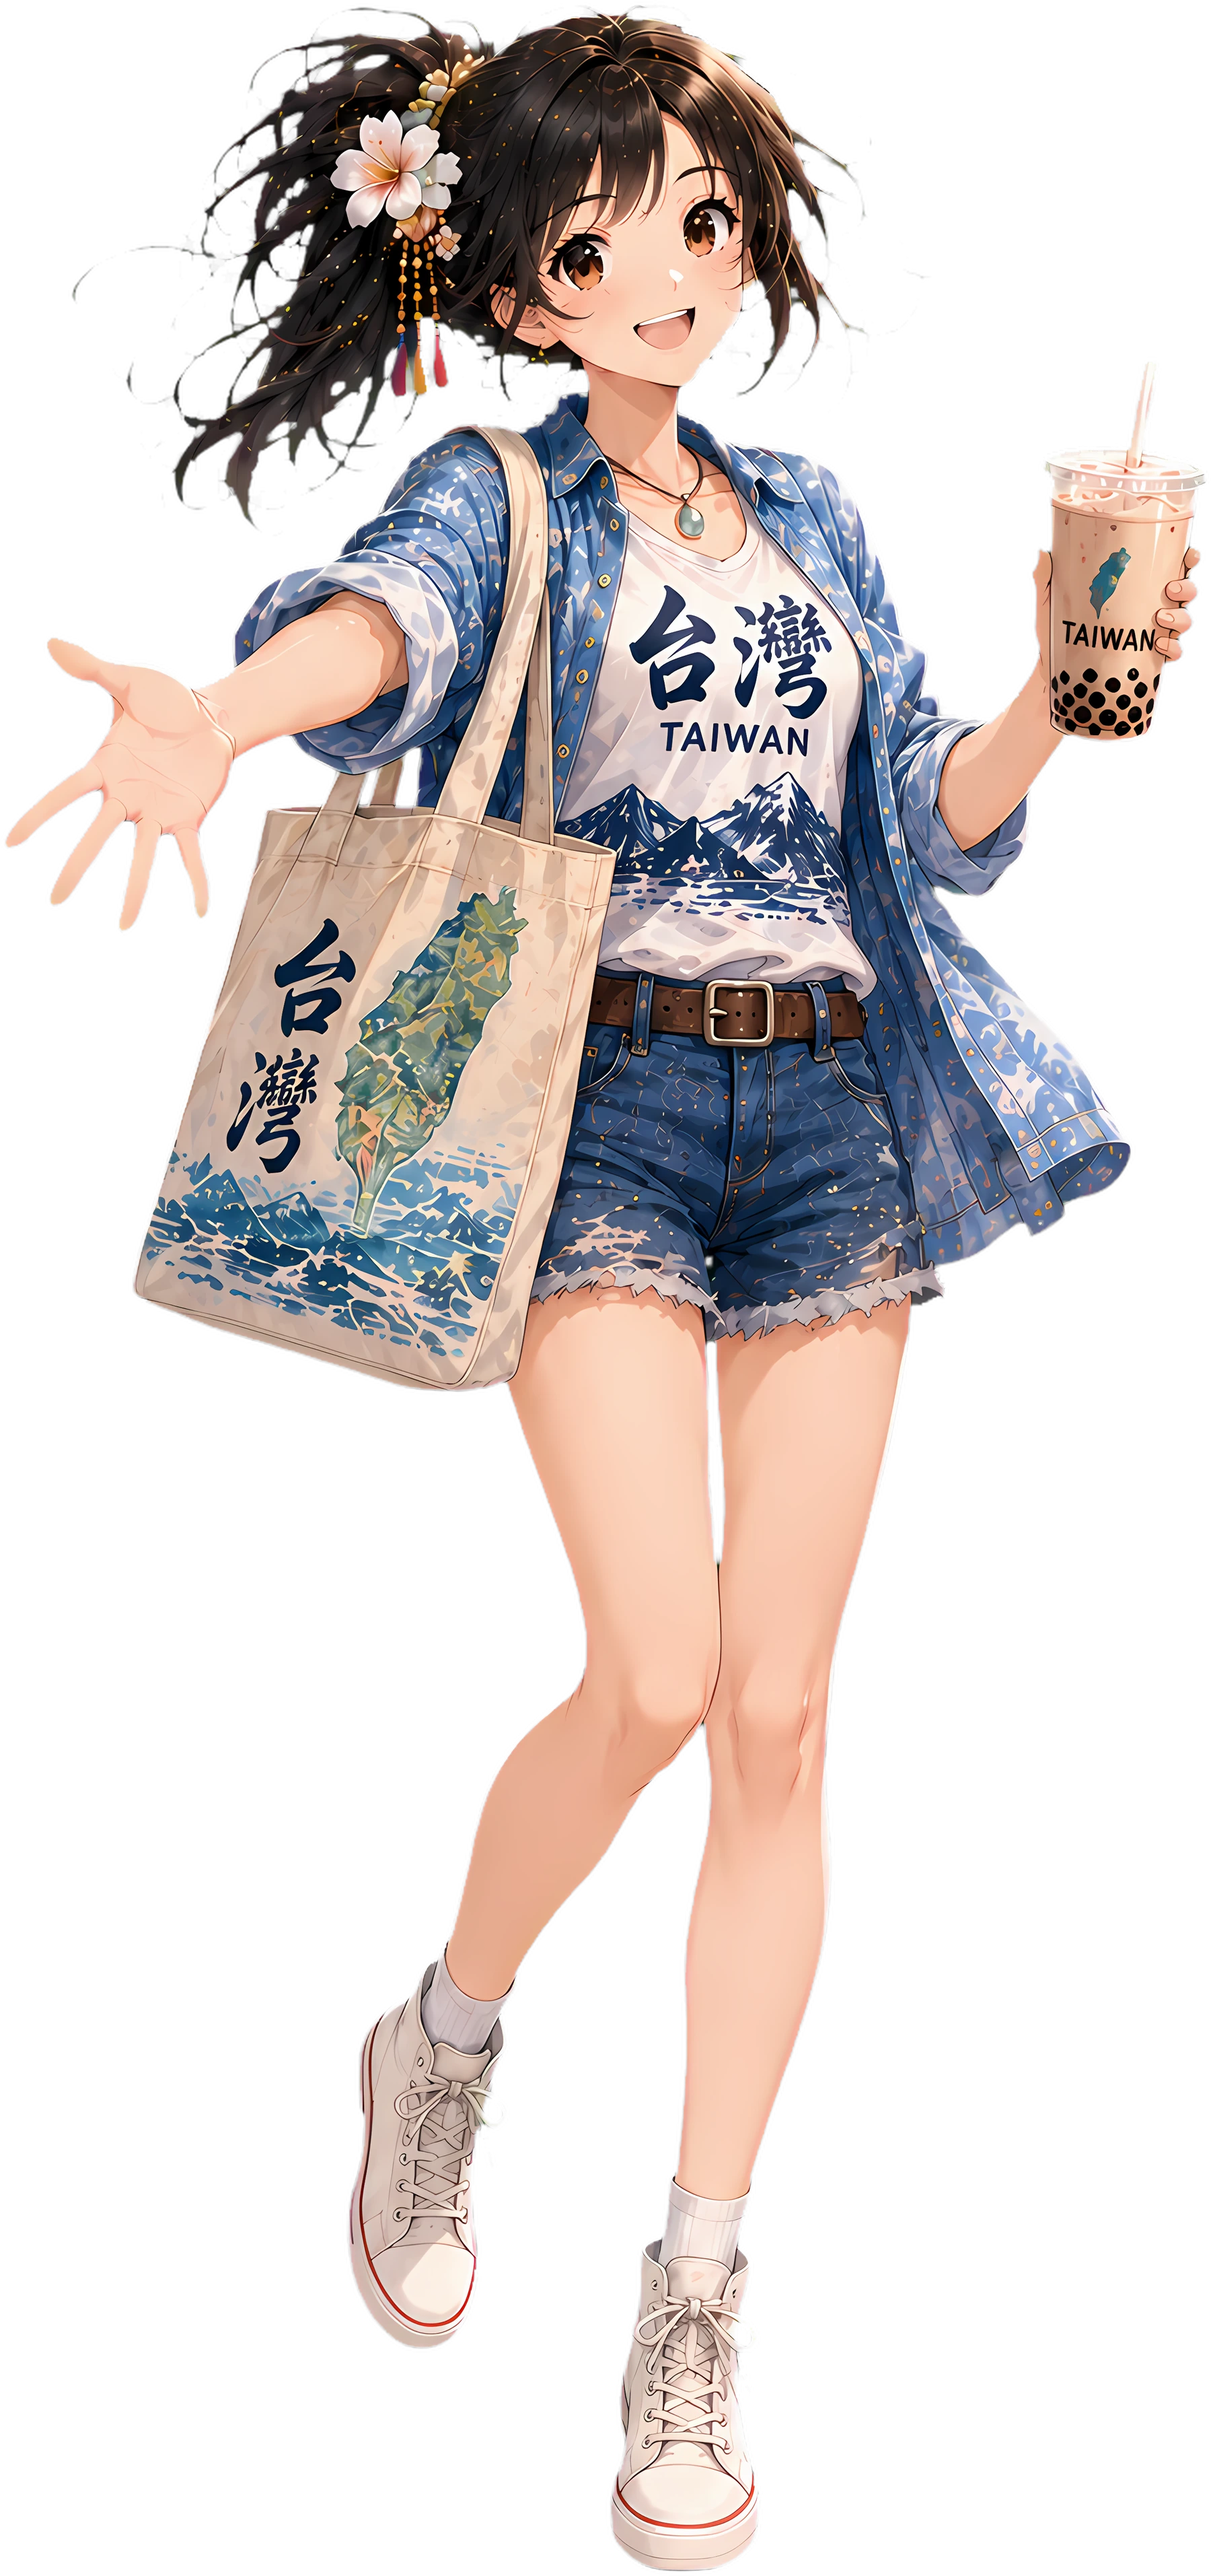
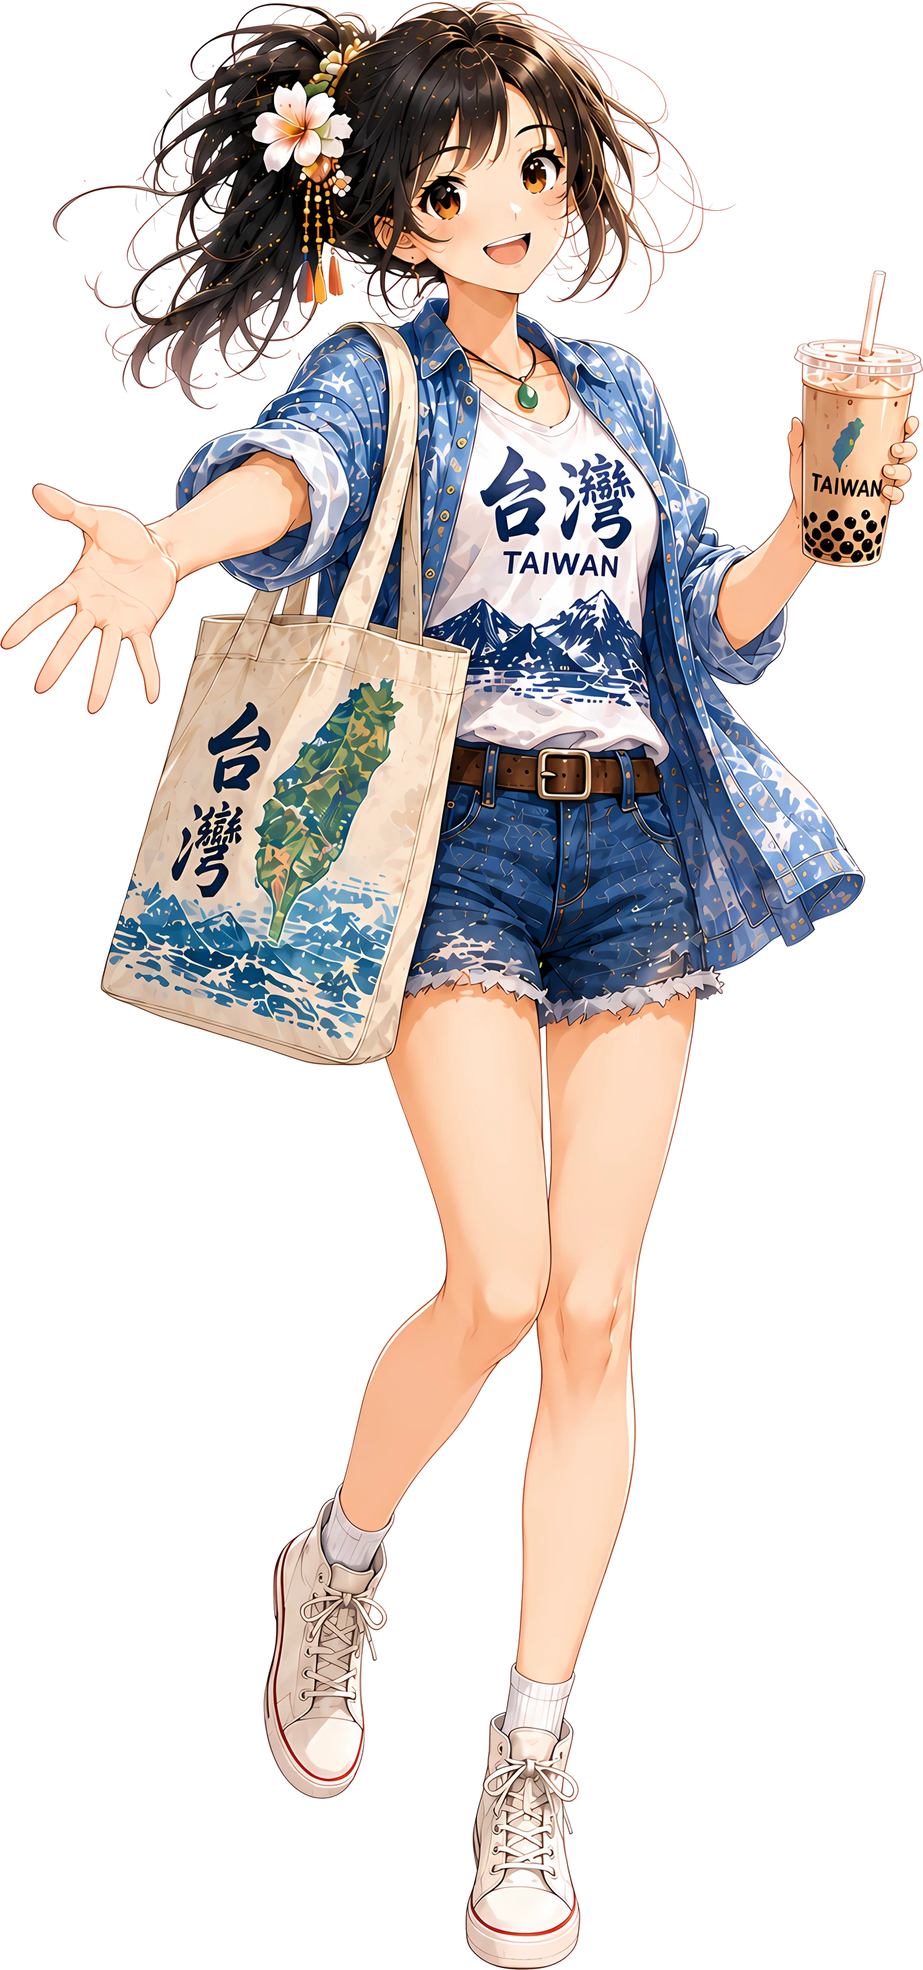
首頁換上新版角色圖
- 母檔（2046×3074）左右各有 356/319px 全透明留白，佔掉 36% 面積。
  裁掉之後內容是 1371×2926、寬高比 0.4685，跟舊圖的 0.4705 幾乎一樣，
  所以 .figure 的三處 vh 高度全部不用動。
  （先前誤把留白當成圖變寬，改過高度又改回來了。）
- @2x 就用母檔原生的 1371×2926，沒有再放大：這張的原始渲染只有 685px 寬，
  舊版那個 1800px 是硬放大出來的，多的都是假像素。440KB，比舊的 903KB 小。
- width/height 屬性跟著換成新檔實際尺寸（900×1921、685×1462）。
- img/alui/ 進 .gitignore：img/*.png 擋不到子目錄，PNG 母檔照慣例不進版控。

diff --git a/index.html b/index.html
@@ -907,11 +907,14 @@ section:has(>.hero){overflow-x:clip}
       </a>
     </div>
     <div class="figure">
-      <!-- 一般螢幕拿 900px（318KB），高解析螢幕才拿 1800px（776KB）。
+      <!-- 一般螢幕拿 900px（328KB），高解析螢幕才拿 1371px（440KB）。
        實測：1440 視窗 DPR1 需要 781px、DPR2 需要 1562px。
-       4K 母檔（2757×5861）在 ~/taiwan-people-drafts/，供印刷或周邊用，不進 repo。 -->
+       2026-08-13 換新版角色圖，母檔（1371×2926，已裁掉透明留白）在
+       ~/taiwan-people-drafts/alui/。@2x 就是母檔原生尺寸、沒有再放大：
+       這張的原始渲染只有 685px 寬，舊版那個 1800px 是硬放大出來的，撈不到細節。
+       width/height 是給瀏覽器算版位的，換圖一定要跟著換成新檔的實際尺寸。 -->
       <img src="img/hero.webp" srcset="img/hero.webp 1x, img/hero@2x.webp 2x"
-           width="900" height="1913"
+           width="900" height="1921"
            alt="台灣人代表角色阿蕊：手持台灣帆布袋與珍珠奶茶、伸手迎向前方的女孩。">
     </div>
   </div>
@@ -1015,7 +1018,7 @@ section:has(>.hero){overflow-x:clip}
       不是為了比誰厲害，而是想說：這些全部都是「台灣人代表」。</p>
   </div>
   <div class="meet">
-    <img class="meet-fig" src="img/hero.webp" width="685" height="1461"
+    <img class="meet-fig" src="img/hero.webp" width="685" height="1462"
          alt="阿蕊：台灣人代表系列的角色">
     <div class="meet-txt">
       <h3>認識阿蕊<small>A-luí</small></h3>
